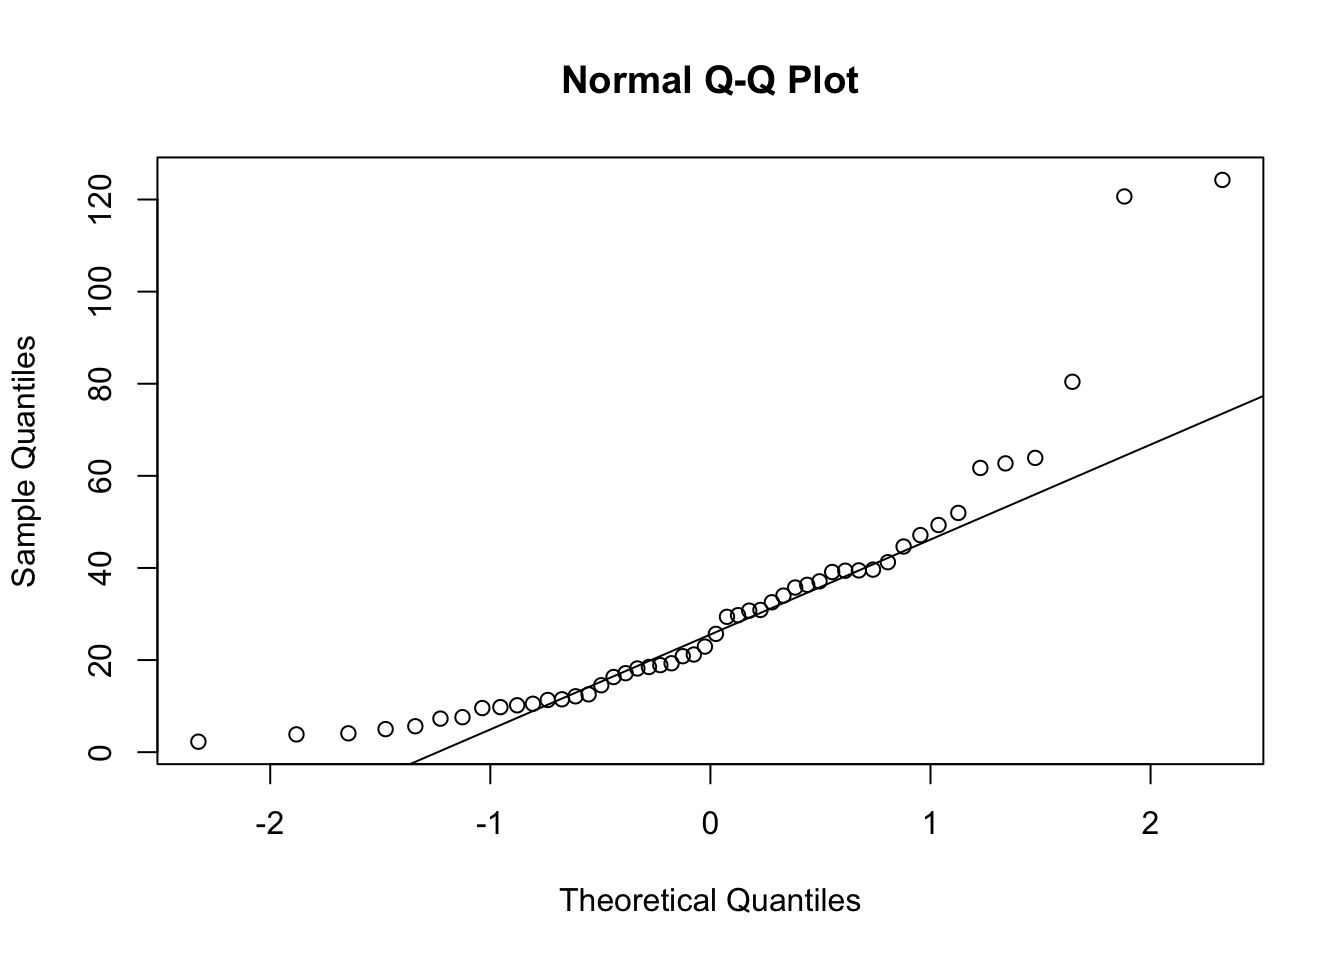
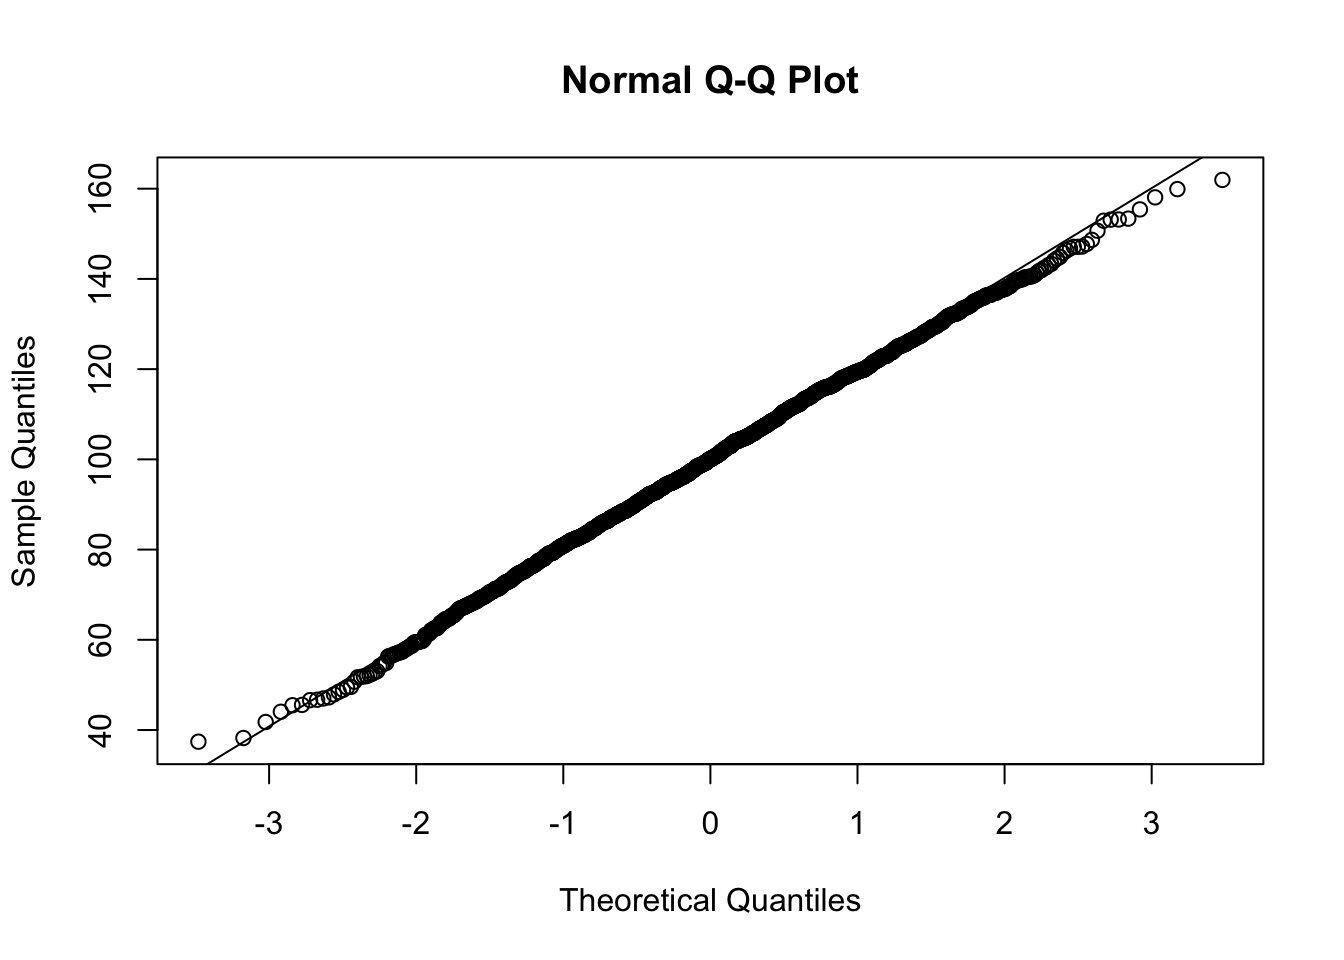
Updating non-parametric tests

diff --git a/docs/tutorials/transformations/index.html b/docs/tutorials/transformations/index.html
@@ -335,21 +335,37 @@ code span.wa { color: #60a0b0; font-weight: bold; font-style: italic; } /* Warni
 </section>
 <section id="qq-plot---grafisk-inspektion-av-normalfördelning" class="level2">
 <h2 class="anchored" data-anchor-id="qq-plot---grafisk-inspektion-av-normalfördelning">QQ-Plot - Grafisk inspektion av normalfördelning</h2>
-<p>Förutom att titta på histogram så är en mycket vanlig metod för att inspektera om data följer en normalfördelning att göra en QQ-Plot</p>
+<p>Förutom att titta på histogram så är en mycket vanlig metod för att inspektera om data följer en normalfördelning att göra en QQ-Plot.</p>
+<p>Nedan följer en QQ plot på normalfördelat data.</p>
 <div class="cell">
-<div class="sourceCode cell-code" id="cb7"><pre class="sourceCode r code-with-copy"><code class="sourceCode r"><span id="cb7-1"><a href="#cb7-1" aria-hidden="true" tabindex="-1"></a><span class="fu">qqnorm</span>(exp.data)</span>
-<span id="cb7-2"><a href="#cb7-2" aria-hidden="true" tabindex="-1"></a><span class="fu">qqline</span>(exp.data)</span></code><button title="Copy to Clipboard" class="code-copy-button"><i class="bi"></i></button></pre></div>
+<details>
+<summary>Code</summary>
+<div class="sourceCode cell-code" id="cb7"><pre class="sourceCode r code-with-copy"><code class="sourceCode r"><span id="cb7-1"><a href="#cb7-1" aria-hidden="true" tabindex="-1"></a><span class="fu">qqnorm</span>(norm.data)</span>
+<span id="cb7-2"><a href="#cb7-2" aria-hidden="true" tabindex="-1"></a><span class="fu">qqline</span>(norm.data)</span></code><button title="Copy to Clipboard" class="code-copy-button"><i class="bi"></i></button></pre></div>
+</details>
 <div class="cell-output-display">
 <p><img src="index_files/figure-html/unnamed-chunk-7-1.png" class="img-fluid" width="672"></p>
+</div>
+</div>
+<p>Vi ser att alla datapunkter faller mer eller mindre på den diagonala linjen, dvs våra mätvärden (på y-axeln) motsvarar nästan perfekt våra förväntade mätvärden om de skulle komma från en normalfördelning (x-axeln). Så här bra ser sällan en QQ plot ut, speciellt låga och höga värden brukar avvika lite, men vi vill inte se en systematisk avvikelse.</p>
+<p>Låt oss titta på en QQ-plot för våra exponentiella data</p>
+<div class="cell">
+<div class="sourceCode cell-code" id="cb8"><pre class="sourceCode r code-with-copy"><code class="sourceCode r"><span id="cb8-1"><a href="#cb8-1" aria-hidden="true" tabindex="-1"></a><span class="fu">qqnorm</span>(exp.data,<span class="at">col=</span><span class="st">"blue"</span>)</span>
+<span id="cb8-2"><a href="#cb8-2" aria-hidden="true" tabindex="-1"></a><span class="fu">qqline</span>(exp.data)</span></code><button title="Copy to Clipboard" class="code-copy-button"><i class="bi"></i></button></pre></div>
+<div class="cell-output-display">
+<p><img src="index_files/figure-html/unnamed-chunk-8-1.png" class="img-fluid" width="672"></p>
 </div>
 </div>
 <p>Även om man sällan ser att alla punkterna faller precis på linjen (speciellt punkterna i ändarna av fördelningen kan ofta ligga en liten bit från linjen) så skall vi inte se ett tydligt mönster så som vi ser här, och vi ser att framför allt de höga värderna avviker kraftigt från den förväntade fördelningen. Det här tyder på att datat inte är normalfördelat.</p>
 <p>Vi testar det på log-transformerat data:</p>
 <div class="cell">
-<div class="sourceCode cell-code" id="cb8"><pre class="sourceCode r code-with-copy"><code class="sourceCode r"><span id="cb8-1"><a href="#cb8-1" aria-hidden="true" tabindex="-1"></a><span class="fu">qqnorm</span>(<span class="fu">log</span>(exp.data))</span>
-<span id="cb8-2"><a href="#cb8-2" aria-hidden="true" tabindex="-1"></a><span class="fu">qqline</span>(<span class="fu">log</span>(exp.data))</span></code><button title="Copy to Clipboard" class="code-copy-button"><i class="bi"></i></button></pre></div>
+<details>
+<summary>Code</summary>
+<div class="sourceCode cell-code" id="cb9"><pre class="sourceCode r code-with-copy"><code class="sourceCode r"><span id="cb9-1"><a href="#cb9-1" aria-hidden="true" tabindex="-1"></a><span class="fu">qqnorm</span>(<span class="fu">log</span>(exp.data),<span class="at">col=</span><span class="st">"blue"</span>)</span>
+<span id="cb9-2"><a href="#cb9-2" aria-hidden="true" tabindex="-1"></a><span class="fu">qqline</span>(<span class="fu">log</span>(exp.data))</span></code><button title="Copy to Clipboard" class="code-copy-button"><i class="bi"></i></button></pre></div>
+</details>
 <div class="cell-output-display">
-<p><img src="index_files/figure-html/unnamed-chunk-8-1.png" class="img-fluid" width="672"></p>
+<p><img src="index_files/figure-html/unnamed-chunk-9-1.png" class="img-fluid" width="672"></p>
 </div>
 </div>
 </section>
@@ -358,10 +374,7 @@ code span.wa { color: #60a0b0; font-weight: bold; font-style: italic; } /* Warni
 <p>Jag <strong>rekommenderar inte</strong> att du testar för normalfördelning om du har stora dataset. Testen undersöker avvikelse från normalfördelning, och ju mer data du har, desto kraftfullare blir testen och kan upptäcka minimala avvikelser som inte spelar någon praktisk roll för de statistiska testen. Men om du ändå vill ha ett test så använd Shapiro Wilk’s test, i funktionen <code>shapiro.test()</code></p>
 <p>Först gör vi ett Shapiro test på vår exponentiella fördelning:</p>
 <div class="cell">
-<details>
-<summary>Code</summary>
-<div class="sourceCode cell-code" id="cb9"><pre class="sourceCode r code-with-copy"><code class="sourceCode r"><span id="cb9-1"><a href="#cb9-1" aria-hidden="true" tabindex="-1"></a><span class="fu">shapiro.test</span>(exp.data)</span></code><button title="Copy to Clipboard" class="code-copy-button"><i class="bi"></i></button></pre></div>
-</details>
+<div class="sourceCode cell-code" id="cb10"><pre class="sourceCode r code-with-copy"><code class="sourceCode r"><span id="cb10-1"><a href="#cb10-1" aria-hidden="true" tabindex="-1"></a><span class="fu">shapiro.test</span>(exp.data)</span></code><button title="Copy to Clipboard" class="code-copy-button"><i class="bi"></i></button></pre></div>
 <div class="cell-output cell-output-stdout">
 <pre><code>
     Shapiro-Wilk normality test
@@ -375,7 +388,7 @@ W = 0.82092, p-value = 2.756e-06</code></pre>
 <div class="cell">
 <details>
 <summary>Code</summary>
-<div class="sourceCode cell-code" id="cb11"><pre class="sourceCode r code-with-copy"><code class="sourceCode r"><span id="cb11-1"><a href="#cb11-1" aria-hidden="true" tabindex="-1"></a><span class="fu">shapiro.test</span>(<span class="fu">log</span>(exp.data))</span></code><button title="Copy to Clipboard" class="code-copy-button"><i class="bi"></i></button></pre></div>
+<div class="sourceCode cell-code" id="cb12"><pre class="sourceCode r code-with-copy"><code class="sourceCode r"><span id="cb12-1"><a href="#cb12-1" aria-hidden="true" tabindex="-1"></a><span class="fu">shapiro.test</span>(<span class="fu">log</span>(exp.data))</span></code><button title="Copy to Clipboard" class="code-copy-button"><i class="bi"></i></button></pre></div>
 </details>
 <div class="cell-output cell-output-stdout">
 <pre><code>
@@ -393,37 +406,37 @@ W = 0.97929, p-value = 0.5224</code></pre>
 <div class="cell">
 <details>
 <summary>Code</summary>
-<div class="sourceCode cell-code" id="cb13"><pre class="sourceCode r code-with-copy"><code class="sourceCode r"><span id="cb13-1"><a href="#cb13-1" aria-hidden="true" tabindex="-1"></a><span class="fu">set.seed</span>(<span class="dv">62874</span>)</span>
-<span id="cb13-2"><a href="#cb13-2" aria-hidden="true" tabindex="-1"></a></span>
-<span id="cb13-3"><a href="#cb13-3" aria-hidden="true" tabindex="-1"></a>simdata <span class="ot">&lt;-</span> <span class="fu">rnorm</span>(<span class="at">mean =</span> <span class="dv">100</span>, <span class="at">sd =</span> <span class="dv">50</span>, <span class="at">n =</span> <span class="dv">2000</span>)</span></code><button title="Copy to Clipboard" class="code-copy-button"><i class="bi"></i></button></pre></div>
+<div class="sourceCode cell-code" id="cb14"><pre class="sourceCode r code-with-copy"><code class="sourceCode r"><span id="cb14-1"><a href="#cb14-1" aria-hidden="true" tabindex="-1"></a><span class="fu">set.seed</span>(<span class="dv">62874</span>)</span>
+<span id="cb14-2"><a href="#cb14-2" aria-hidden="true" tabindex="-1"></a></span>
+<span id="cb14-3"><a href="#cb14-3" aria-hidden="true" tabindex="-1"></a>simdata <span class="ot">&lt;-</span> <span class="fu">rnorm</span>(<span class="at">mean =</span> <span class="dv">100</span>, <span class="at">sd =</span> <span class="dv">50</span>, <span class="at">n =</span> <span class="dv">2000</span>)</span></code><button title="Copy to Clipboard" class="code-copy-button"><i class="bi"></i></button></pre></div>
 </details>
 </div>
 <p>Vi gör sedan ett histogram - det ser extremt normalfördelat ut!</p>
 <div class="cell">
 <details>
 <summary>Code</summary>
-<div class="sourceCode cell-code" id="cb14"><pre class="sourceCode r code-with-copy"><code class="sourceCode r"><span id="cb14-1"><a href="#cb14-1" aria-hidden="true" tabindex="-1"></a><span class="fu">hist</span>(simdata)</span></code><button title="Copy to Clipboard" class="code-copy-button"><i class="bi"></i></button></pre></div>
+<div class="sourceCode cell-code" id="cb15"><pre class="sourceCode r code-with-copy"><code class="sourceCode r"><span id="cb15-1"><a href="#cb15-1" aria-hidden="true" tabindex="-1"></a><span class="fu">hist</span>(simdata)</span></code><button title="Copy to Clipboard" class="code-copy-button"><i class="bi"></i></button></pre></div>
 </details>
 <div class="cell-output-display">
-<p><img src="index_files/figure-html/unnamed-chunk-12-1.png" class="img-fluid" width="672"></p>
+<p><img src="index_files/figure-html/unnamed-chunk-13-1.png" class="img-fluid" width="672"></p>
 </div>
 </div>
 <p>En QQ-plot ser även den väldigt bra ut, så här bra har jag nog aldrig sett en QQ plot som varit baserad på riktiga data.</p>
 <div class="cell">
 <details>
 <summary>Code</summary>
-<div class="sourceCode cell-code" id="cb15"><pre class="sourceCode r code-with-copy"><code class="sourceCode r"><span id="cb15-1"><a href="#cb15-1" aria-hidden="true" tabindex="-1"></a><span class="fu">qqnorm</span>(simdata)</span>
-<span id="cb15-2"><a href="#cb15-2" aria-hidden="true" tabindex="-1"></a><span class="fu">qqline</span>(simdata)</span></code><button title="Copy to Clipboard" class="code-copy-button"><i class="bi"></i></button></pre></div>
+<div class="sourceCode cell-code" id="cb16"><pre class="sourceCode r code-with-copy"><code class="sourceCode r"><span id="cb16-1"><a href="#cb16-1" aria-hidden="true" tabindex="-1"></a><span class="fu">qqnorm</span>(simdata)</span>
+<span id="cb16-2"><a href="#cb16-2" aria-hidden="true" tabindex="-1"></a><span class="fu">qqline</span>(simdata)</span></code><button title="Copy to Clipboard" class="code-copy-button"><i class="bi"></i></button></pre></div>
 </details>
 <div class="cell-output-display">
-<p><img src="index_files/figure-html/unnamed-chunk-13-1.png" class="img-fluid" width="672"></p>
+<p><img src="index_files/figure-html/unnamed-chunk-14-1.png" class="img-fluid" width="672"></p>
 </div>
 </div>
 <p>Men tack vare att vi har så många värden så tycker Shapiro Wilk’s test att våra data (som vi vet kommer från en normalfördelning) signifikant avviker från normalfördelningen.</p>
 <div class="cell">
 <details>
 <summary>Code</summary>
-<div class="sourceCode cell-code" id="cb16"><pre class="sourceCode r code-with-copy"><code class="sourceCode r"><span id="cb16-1"><a href="#cb16-1" aria-hidden="true" tabindex="-1"></a><span class="fu">shapiro.test</span>(simdata)</span></code><button title="Copy to Clipboard" class="code-copy-button"><i class="bi"></i></button></pre></div>
+<div class="sourceCode cell-code" id="cb17"><pre class="sourceCode r code-with-copy"><code class="sourceCode r"><span id="cb17-1"><a href="#cb17-1" aria-hidden="true" tabindex="-1"></a><span class="fu">shapiro.test</span>(simdata)</span></code><button title="Copy to Clipboard" class="code-copy-button"><i class="bi"></i></button></pre></div>
 </details>
 <div class="cell-output cell-output-stdout">
 <pre><code>

diff --git a/docs/tutorials/non-parametric/index.html b/docs/tutorials/non-parametric/index.html
@@ -331,11 +331,8 @@ code span.wa { color: #60a0b0; font-weight: bold; font-style: italic; } /* Warni
 <p>Vi vill nu göra ett Wilcoxons test för att undersöka om vår responsvariabel (beroende variabel) <em>offspring</em> beror av vår förklarande variabel (oberoende variabel) <em>treatment</em>, med andra ord om antalet avkomma beror av huruvida området haft predatorkontroll eller ej</p>
 <p>Vi specificerar en modell med hjälp av funktionen <code>wilcox.test()</code> och väljer att spara resultatet i ett objekt som vi kallar <code>m.dunlin</code>.</p>
 <div class="cell">
-<details>
-<summary>Code</summary>
 <div class="sourceCode cell-code" id="cb9"><pre class="sourceCode r code-with-copy"><code class="sourceCode r"><span id="cb9-1"><a href="#cb9-1" aria-hidden="true" tabindex="-1"></a>m.dunlin<span class="ot">&lt;-</span><span class="fu">wilcox.test</span>(offspring<span class="sc">~</span>treatment,</span>
 <span id="cb9-2"><a href="#cb9-2" aria-hidden="true" tabindex="-1"></a>                    <span class="at">data=</span>dunlin_data)</span></code><button title="Copy to Clipboard" class="code-copy-button"><i class="bi"></i></button></pre></div>
-</details>
 <div class="cell-output cell-output-stderr">
 <pre><code>Warning in wilcox.test.default(x = DATA[[1L]], y = DATA[[2L]], ...): cannot
 compute exact p-value with ties</code></pre>
@@ -424,7 +421,7 @@ alternative hypothesis: true location shift is not equal to 0</code></pre>
 <p><img src="index_files/figure-html/unnamed-chunk-12-1.png" class="img-fluid" width="672"></p>
 </div>
 </div>
-<p>Vi ser att våra data inte ser ut att följa någon normalfördelning, och dessutom vet vi att det är <em>ordinaldata</em>, dvs vår responsvariabel är inte mätvärden utan i ordnade kategorier. Bara det senare faktumet gör att vi inte skall använda oss av en vanlig envägs-ANOVA. Icke-normalfördelat data är mindre viktigt, eftersom en envägs ANOVA kräver att det är <em>residualerna</em> som skall vara normalfördelade.</p>
+<p>Vi ser att våra data ser väldigt jämna ut, och kanske inte är normalfördelade. <strong>Dessutom vet vi att det är <em>ordinaldata</em></strong>, dvs vår responsvariabel är inte mätvärden utan i ordnade kategorier. Bara det senare faktumet gör att vi inte skall använda oss av en vanlig envägs-ANOVA.</p>
 </section>
 <section id="visualisera-datat-med-en-enkel-graf-1" class="level3">
 <h3 class="anchored" data-anchor-id="visualisera-datat-med-en-enkel-graf-1">Visualisera datat med en enkel graf</h3>
@@ -446,11 +443,8 @@ alternative hypothesis: true location shift is not equal to 0</code></pre>
 <p>Vi vill nu göra ett Kruskal Wallis test för att undersöka om vår responsvariabel (beroende variabel) <em>Cover.cathegory</em> beror av vår förklarande variabel (oberoende variabel) <em>Forest</em></p>
 <p>Vi specificerar en modell med hjälp av funktionen <code>kruskal.test()</code> och väljer att spara resultatet i ett objekt som vi kallar <code>m.cover</code>.</p>
 <div class="cell">
-<details>
-<summary>Code</summary>
 <div class="sourceCode cell-code" id="cb20"><pre class="sourceCode r code-with-copy"><code class="sourceCode r"><span id="cb20-1"><a href="#cb20-1" aria-hidden="true" tabindex="-1"></a>m.cover<span class="ot">&lt;-</span><span class="fu">kruskal.test</span>(Cover.cathegory<span class="sc">~</span>Forest,</span>
 <span id="cb20-2"><a href="#cb20-2" aria-hidden="true" tabindex="-1"></a>                    <span class="at">data=</span>cover_data)</span></code><button title="Copy to Clipboard" class="code-copy-button"><i class="bi"></i></button></pre></div>
-</details>
 </div>
 <div class="cell">
 <details>
@@ -472,12 +466,9 @@ Kruskal-Wallis chi-squared = 11.883, df = 2, p-value = 0.002629</code></pre>
 <p>När man gör ett posthoc-test på en icke-parametrisk envägs-ANOVA använder man sig av <em>Dunnets Test</em>, vilket finns tillgängligt i paketet <strong>dunn.test</strong>. Om du inte sedan tidigare har paketet installerat så gör du det med koden <code>install.packages("dunn.test")</code>. Innan du använder paketet behöver du läsa in det i din session i R genom funktionen <code>library()</code></p>
 <p>När vi läst in paketet använder vi oss av funktionen <code>dunn.test()</code>. Först anger vi vår responsvariabel, och det gör vi enligt formeln <strong><code>Datatset$Variabel</code></strong>, vilket i vårat fall blir <code>cover_data$Cover.cathegory</code>. Efter det anger vi vår förklarande faktor på samma sätt, vilket blir <code>cover_data$Forest</code>, och slutligen anger vi metoden för att korrigera p-värden för multipla test. Vanligt är att använda sig av <em>Holm’s metod</em>, anges med <code>method="holm"</code>.</p>
 <div class="cell">
-<details>
-<summary>Code</summary>
 <div class="sourceCode cell-code" id="cb23"><pre class="sourceCode r code-with-copy"><code class="sourceCode r"><span id="cb23-1"><a href="#cb23-1" aria-hidden="true" tabindex="-1"></a><span class="fu">library</span>(dunn.test)</span>
 <span id="cb23-2"><a href="#cb23-2" aria-hidden="true" tabindex="-1"></a></span>
 <span id="cb23-3"><a href="#cb23-3" aria-hidden="true" tabindex="-1"></a><span class="fu">dunn.test</span>(cover_data<span class="sc">$</span>Cover.cathegory,cover_data<span class="sc">$</span>Forest,<span class="at">method=</span><span class="st">"holm"</span>)</span></code><button title="Copy to Clipboard" class="code-copy-button"><i class="bi"></i></button></pre></div>
-</details>
 <div class="cell-output cell-output-stdout">
 <pre><code>  Kruskal-Wallis rank sum test
 
@@ -593,10 +584,7 @@ Reject Ho if p &lt;= alpha/2</code></pre>
 <h3 class="anchored" data-anchor-id="statistisk-modellering-2">Statistisk modellering</h3>
 <p>Vi gör nu en icke-parametrisk korrelation, och den har stora likheter med korrelationen vi tidigare gjort. Vi använder oss fortfarande av funktionen <code>cor.test()</code>, den enda skillnaden är att vi anger <code>method = "s"</code> (står för Spearman) där vi tidigare angett <code>"p"</code></p>
 <div class="cell">
-<details>
-<summary>Code</summary>
 <div class="sourceCode cell-code" id="cb33"><pre class="sourceCode r code-with-copy"><code class="sourceCode r"><span id="cb33-1"><a href="#cb33-1" aria-hidden="true" tabindex="-1"></a>m.spearman <span class="ot">&lt;-</span><span class="fu">cor.test</span>(spearman_data<span class="sc">$</span>A, spearman_data<span class="sc">$</span>B, <span class="at">method =</span> <span class="st">"s"</span>)</span></code><button title="Copy to Clipboard" class="code-copy-button"><i class="bi"></i></button></pre></div>
-</details>
 </div>
 </section>
 <section id="resultat" class="level3">
